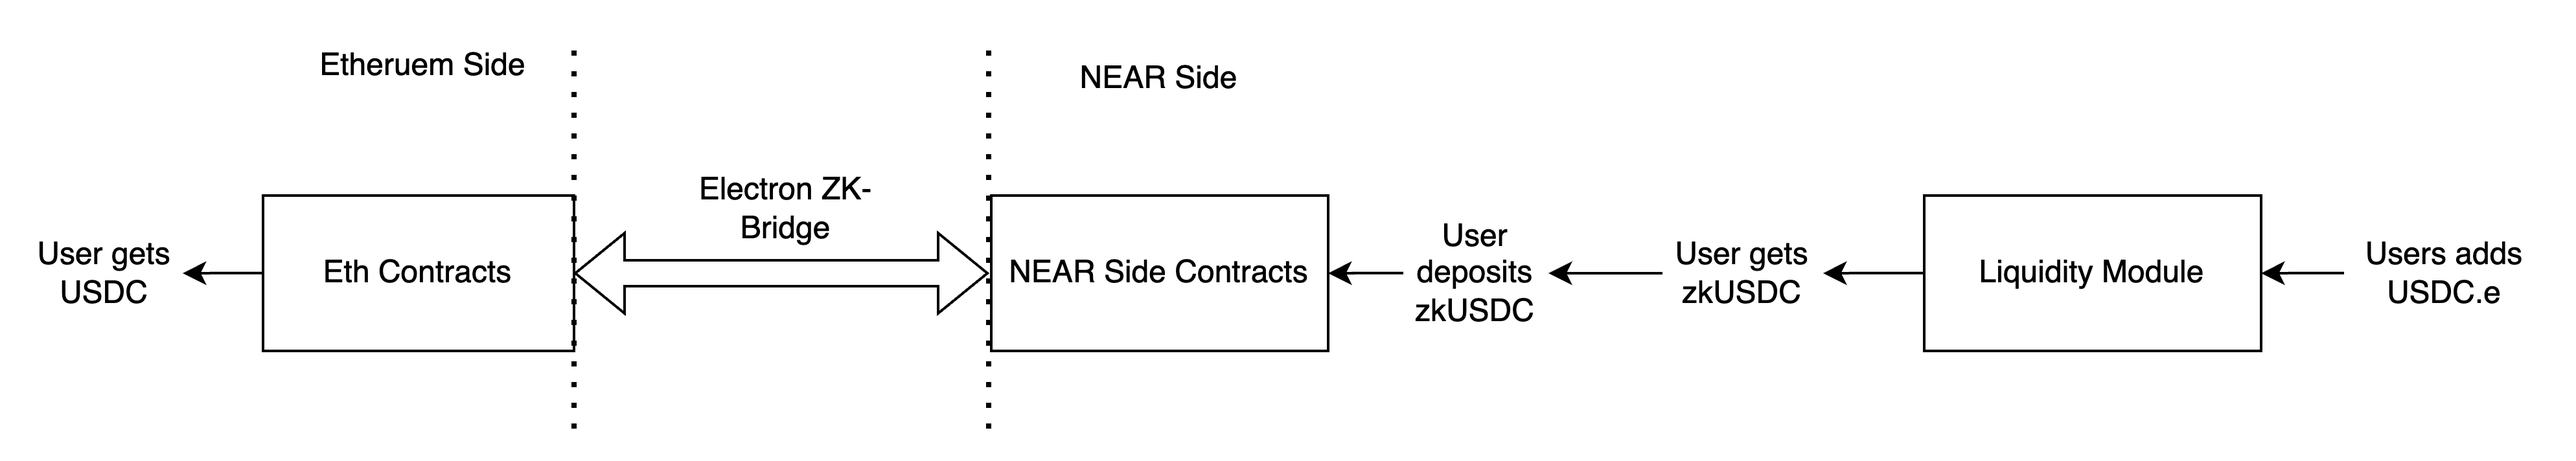
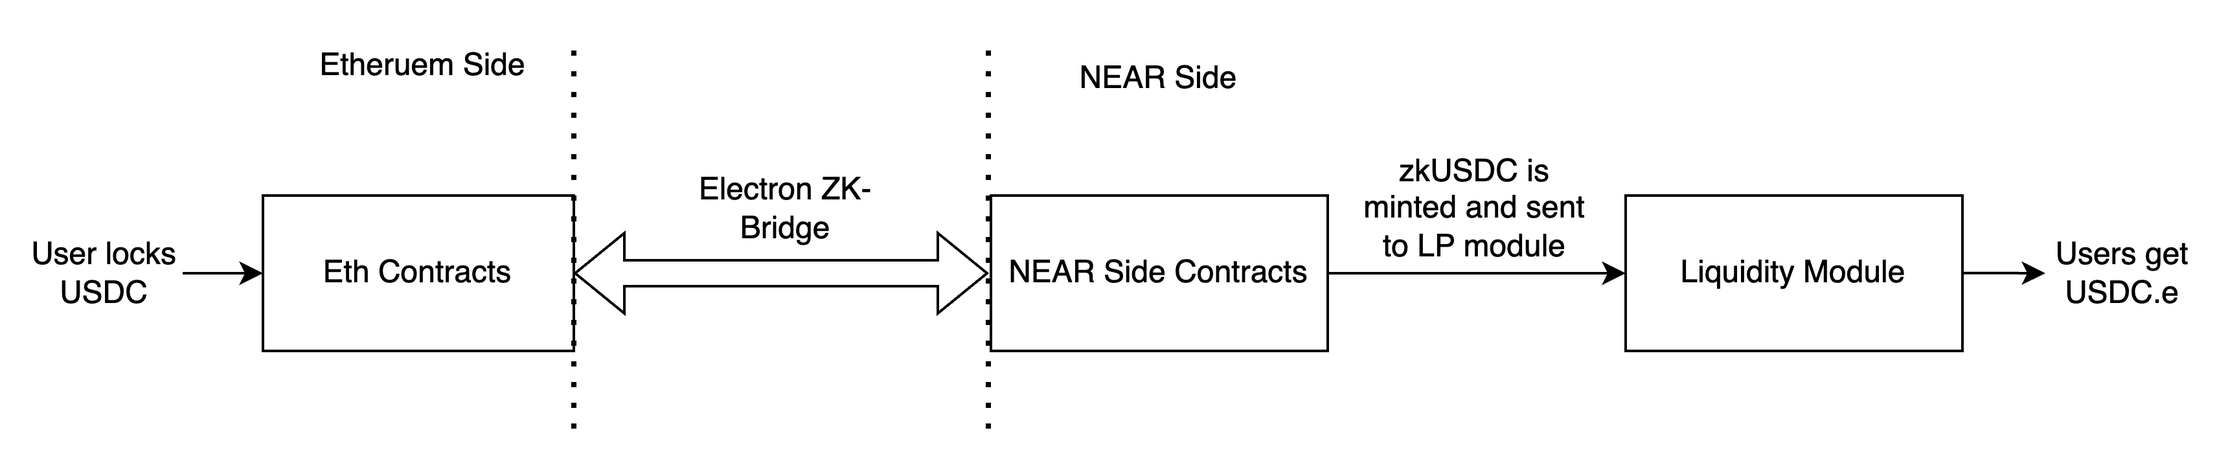
GITBOOK-104: change request with no subject merged in GitBook

diff --git a/protocol-design/user-flows-and-flow-of-funds.md b/protocol-design/user-flows-and-flow-of-funds.md
@@ -1,6 +1,12 @@
 # User Flows and Flow of Funds
 
-Our bridge supports USDC for now (although other tokens can be added very easily). Native USD coin on Ethereum is USDC, and on NEAR it is USDC.e
+Our bridge supports USDC for now (although other tokens can be added very easily).
+
+Quick summary of types of tokens -&#x20;
+
+1. USDC - native Ethereum USDC
+2. zkUSDC - wrapped asset of Electron zk-bridge (only on NEAR)
+3. USDC.e - native USDC of NEAR
 
 ### Ethereum to NEAR
 
@@ -10,7 +16,7 @@ Then, using a liquidity pool attached to the bridge, the zkUSDC is automatically
 
 As a user, you have the choice to select whether you want zkUSDC or USDC.e on NEAR when bridging USDC from Ethereum.
 
-<figure><img src="../.gitbook/assets/image (4).png" alt=""><figcaption></figcaption></figure>
+<figure><img src="../.gitbook/assets/image (8).png" alt=""><figcaption></figcaption></figure>
 
 ### NEAR to Ethereum
 
@@ -18,5 +24,9 @@ When a user want to go from NEAR to Ethereum, they would bring their USDC.e coin
 
 Then, the user can burn zkUSDC on the bridge, and then the corresponding amount of USDC tokens are unlocked on Ethereum and transferred to the user.
 
-<figure><img src="../.gitbook/assets/image (8).png" alt=""><figcaption></figcaption></figure>
+<figure><img src="../.gitbook/assets/image (7).png" alt=""><figcaption></figcaption></figure>
+
+
+
+
 

diff --git a/SUMMARY.md b/SUMMARY.md
@@ -5,7 +5,7 @@
 ## Protocol Design
 
 * [High Level Design](protocol-design/high-level-design.md)
-* [Flow of Funds](protocol-design/flow-of-funds.md)
+* [User Flows and Flow of Funds](protocol-design/user-flows-and-flow-of-funds.md)
 
 ## Transaction Flows
 
@@ -15,7 +15,6 @@
 
 ## Miscellaneous
 
-* [User Flows and Flow of Funds](miscellaneous/user-flows-and-flow-of-funds.md)
 * [How we ensure Sequence of Transactions is maintained](miscellaneous/how-we-ensure-sequence-of-transactions-is-maintained.md)
 * [Decentralizing the relayer network](miscellaneous/decentralizing-the-relayer-network.md)
 * [Liquidity Module](miscellaneous/liquidity-module.md)
